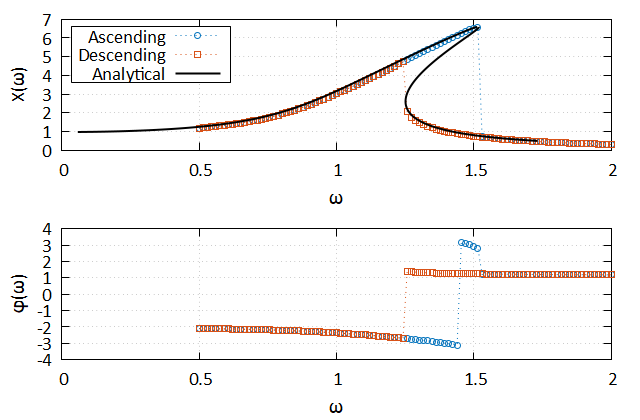
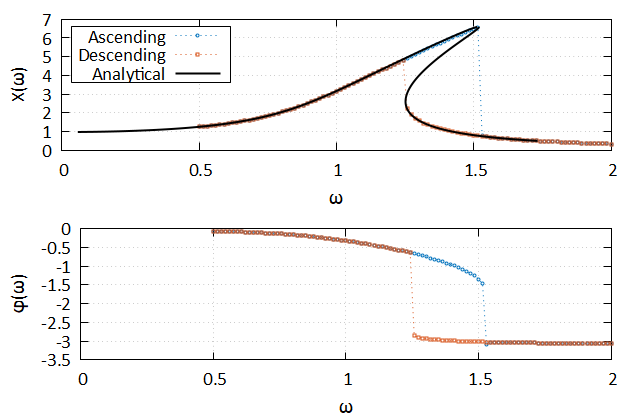
Update the frequency sweep method

diff --git a/test/c/dynamics_frf_tests.c b/test/c/dynamics_frf_tests.c
@@ -193,7 +193,7 @@ void c_example_2nd_order_sweep(int n, double freq, double t, const double *x,
     const double wn = 2.0 * pi * 50.0;
     double f;
 
-    f = sin(2.0 * pi * freq * t);
+    f = 1.0e3 * sin(2.0 * pi * freq * t);
     dxdt[0] = x[1];
     dxdt[1] = f - (2.0 * z * wn * x[1] + wn * wn * x[0]);
 }
@@ -204,7 +204,7 @@ bool c_test_frf_sweep()
     bool rst;
     const double fmax = 60.0;
     const double fmin = 40.0;
-    const double tol = 0.05;
+    const double tol = 0.01;
     const int npts = 10;
     const double pi = 2.0 * acos(0.0);
     const double z = 1.0e-1;
@@ -218,6 +218,7 @@ bool c_test_frf_sweep()
     // Initialization
     rst = true;
     c_set_frequency_sweep_defaults(&opts);
+    opts.frequency_in_hz = true;
     init_vals[0] = 0.0;
     init_vals[1] = 0.0;
     df = (fmax - fmin) / (npts - 1.0);
@@ -232,7 +233,7 @@ bool c_test_frf_sweep()
     for (i = 0; i < npts; ++i)
     {
         s = I * omega[i];
-        tf1 = 1.0 / (s * s + 2.0 * z * wn * s + wn * wn);
+        tf1 = 1.0e3 / (s * s + 2.0 * z * wn * s + wn * wn);
         tf2 = tf1 * s;
         magans1[i] = cabs(tf1);
         magans2[i] = cabs(tf2);

diff --git a/src/c/dynamics.h b/src/c/dynamics.h
@@ -65,6 +65,7 @@ typedef struct {
     int cycle_count;
     int transient_cycles;
     int points_per_cycle;
+    bool frequency_in_hz;
 } c_frequency_sweep_controls;
 
 typedef struct {